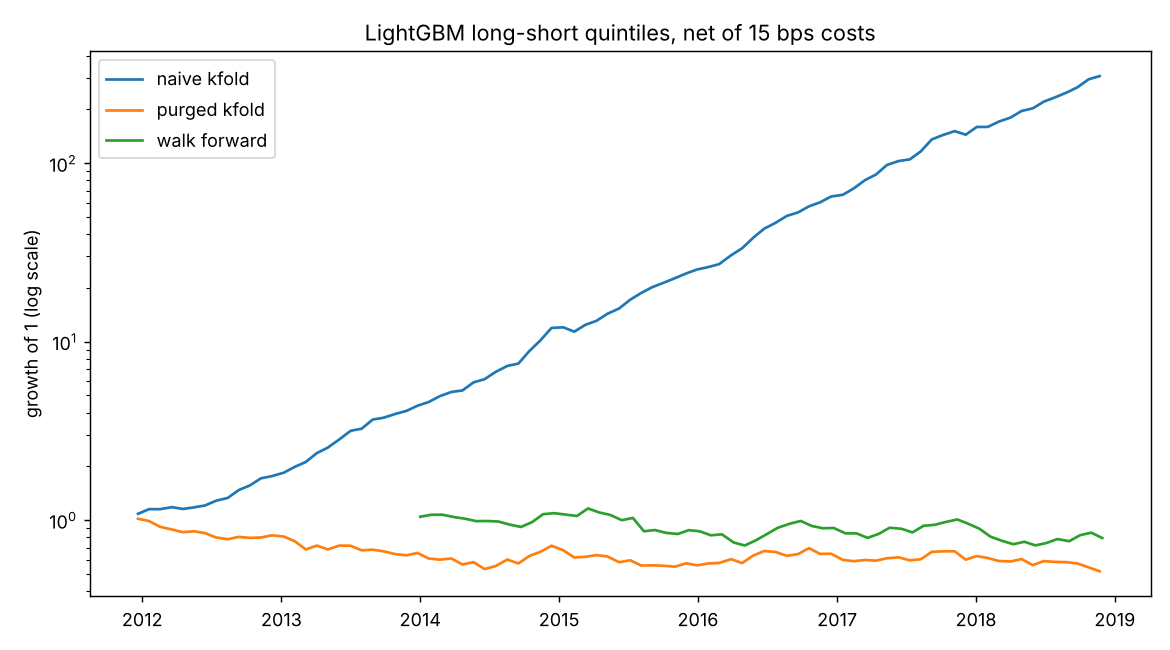
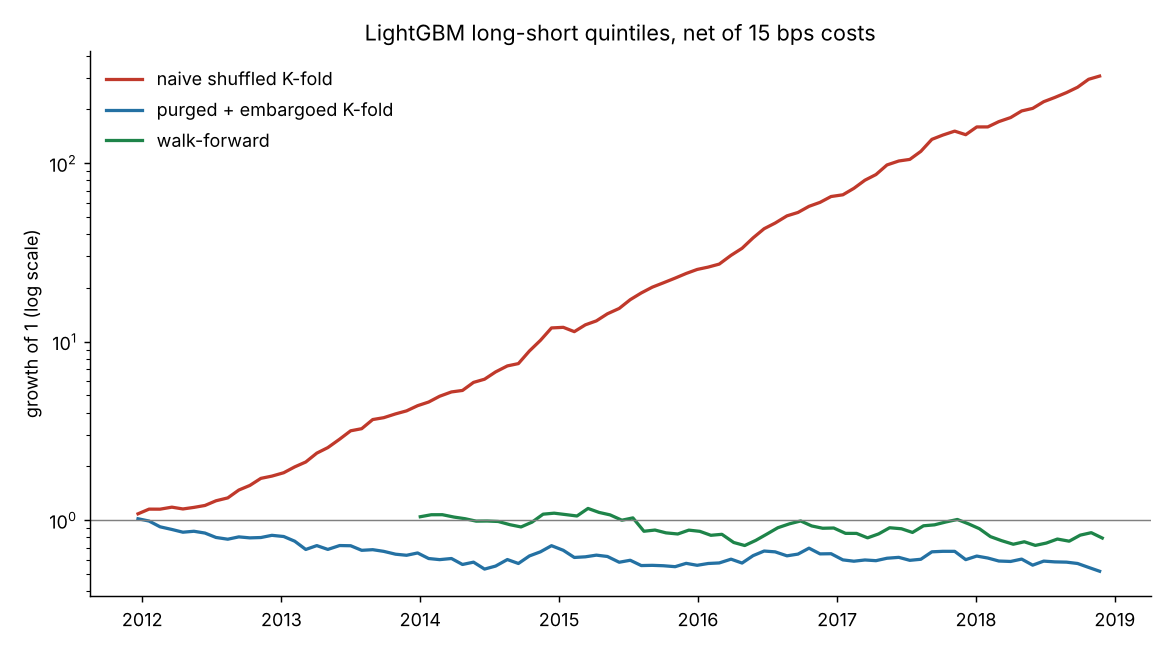
Experiment: cost sensitivity, IC by year, feature importance; CI workflow for the real-data run
Claude-Session: https://claude.ai/code/session_01Xqk2g4KnHZ4g59dPzdo9K7

diff --git a/scripts/02_run_experiment.py b/scripts/02_run_experiment.py
@@ -3,9 +3,11 @@
     python scripts/02_run_experiment.py
 
 Outputs
-- results/summary.csv            IC and backtest stats for every (validation, model)
-- results/summary.md             the same as a markdown table
-- results/cumulative_returns.png long-short net equity curves, naive vs purged vs walk-forward
+- results/summary.csv / summary.md   IC and backtest stats for every (validation, model)
+- results/cost_sensitivity.md        walk-forward LightGBM at 0, 15 and 30 bps
+- results/ic_by_year.md              walk-forward IC year by year
+- results/feature_importance.md      LightGBM gain importance (walk-forward models)
+- results/cumulative_returns.png     long-short net equity curves for the three schemes
 """
 import sys
 from pathlib import Path
@@ -21,6 +23,7 @@ import numpy as np  # noqa: E402
 import pandas as pd  # noqa: E402
 
 from alpha.backtest import information_coefficient, performance, run_backtest  # noqa: E402
+from alpha.clean import clean_prices  # noqa: E402
 from alpha.cv import naive_kfold, purged_kfold, walk_forward  # noqa: E402
 from alpha.data import load_prices  # noqa: E402
 from alpha.features import FEATURES, build_features  # noqa: E402
@@ -28,7 +31,8 @@ from alpha.labels import HORIZON, build_labels  # noqa: E402
 from alpha.models import oos_predictions  # noqa: E402
 
 RESULTS = ROOT / "results"
-FIRST_TEST_YEAR = 2015  # walk-forward: train on 2011-2014 first, then expand yearly
+FIRST_TEST_YEAR = 2015  # walk-forward: first model trains on 2011-2014, then expands yearly
+COST_BPS = 15.0
 
 
 def load_dataset(prices: pd.DataFrame) -> pd.DataFrame:
@@ -38,9 +42,28 @@ def load_dataset(prices: pd.DataFrame) -> pd.DataFrame:
     return df.sort_values(["date", "ticker"]).reset_index(drop=True)
 
 
+def evaluate(df: pd.DataFrame, cost_bps: float = COST_BPS) -> tuple[dict, pd.DataFrame, pd.Series]:
+    ic = information_coefficient(df)
+    bt = run_backtest(df, cost_bps=cost_bps)
+    # IC on rebalance dates only, so its t-stat isn't inflated by overlapping labels
+    ic_reb = ic.reindex(bt.index).dropna()
+    row = {"mean_ic": ic_reb.mean(), "ic_tstat": ic_reb.mean() / ic_reb.std() * np.sqrt(len(ic_reb))}
+    for port in ["long_short", "long_only"]:
+        for kind in ["gross", "net"]:
+            p = performance(bt[f"{port}_{kind}"])
+            row[f"{port}_{kind}_sharpe"] = p["sharpe"]
+            row[f"{port}_{kind}_ann_return"] = p["ann_return"]
+        row[f"{port}_max_dd"] = performance(bt[f"{port}_net"])["max_drawdown"]
+        row[f"{port}_turnover"] = bt[f"{port}_turnover"].iloc[1:].mean()
+    ew = performance(bt["equal_weight_gross"])
+    row["equal_weight_sharpe"], row["equal_weight_ann_return"] = ew["sharpe"], ew["ann_return"]
+    row["test_start"], row["test_end"] = bt.index.min().date(), bt.index.max().date()
+    return row, bt, ic
+
+
 def main(prices: pd.DataFrame | None = None, out: Path = RESULTS) -> pd.DataFrame:
-    out.mkdir(exist_ok=True)
-    prices = load_prices() if prices is None else prices
+    out.mkdir(parents=True, exist_ok=True)
+    prices = clean_prices(load_prices() if prices is None else prices)
     df = load_dataset(prices)
     print(f"dataset: {len(df):,} stock-days, {df['ticker'].nunique()} stocks, "
           f"{df['date'].min().date()} to {df['date'].max().date()}")
@@ -50,47 +73,64 @@ def main(prices: pd.DataFrame | None = None, out: Path = RESULTS) -> pd.DataFram
         "purged_kfold": lambda: purged_kfold(df["date"], df["label_end"], 5, embargo_days=HORIZON),
         "walk_forward": lambda: walk_forward(df["date"], df["label_end"], FIRST_TEST_YEAR),
     }
-    rows, curves = [], {}
+    rows, curves, importances = [], {}, []
     for scheme, splits in schemes.items():
         for model in ["ridge", "lightgbm"]:
-            df["pred"] = oos_predictions(df, FEATURES, splits(), model)
-            ic = information_coefficient(df)
-            bt = run_backtest(df)
-            # IC on rebalance dates only, so its t-stat isn't inflated by overlapping labels
-            ic_reb = ic.reindex(bt.index).dropna()
-            row = {
-                "validation": scheme, "model": model,
-                "mean_ic": ic_reb.mean(),
-                "ic_tstat": ic_reb.mean() / ic_reb.std() * np.sqrt(len(ic_reb)),
-            }
-            for port in ["long_short", "long_only"]:
-                for kind in ["gross", "net"]:
-                    p = performance(bt[f"{port}_{kind}"])
-                    row[f"{port}_{kind}_sharpe"] = p["sharpe"]
-                    row[f"{port}_{kind}_ann_return"] = p["ann_return"]
-                row[f"{port}_max_dd"] = performance(bt[f"{port}_net"])["max_drawdown"]
-                row[f"{port}_turnover"] = bt[f"{port}_turnover"].iloc[1:].mean()
-            row["equal_weight_sharpe"] = performance(bt["equal_weight_gross"])["sharpe"]
-            rows.append(row)
+            imp = importances if (scheme, model) == ("walk_forward", "lightgbm") else None
+            df["pred"] = oos_predictions(df, FEATURES, splits(), model, importances=imp)
+            row, bt, ic = evaluate(df)
+            rows.append({"validation": scheme, "model": model, **row})
             curves[(scheme, model)] = (1 + bt["long_short_net"]).cumprod()
             print(f"  {scheme:13s} {model:9s} IC={row['mean_ic']:+.4f} "
-                  f"L/S net Sharpe={row['long_short_net_sharpe']:+.2f}")
+                  f"L/S net Sharpe={row['long_short_net_sharpe']:+.2f}", flush=True)
+            if (scheme, model) == ("walk_forward", "lightgbm"):
+                wf_df, wf_ic, wf_bt = df.copy(), ic, bt
 
     summary = pd.DataFrame(rows)
     summary.to_csv(out / "summary.csv", index=False)
     cols = ["validation", "model", "mean_ic", "ic_tstat", "long_short_gross_sharpe",
             "long_short_net_sharpe", "long_short_net_ann_return", "long_short_max_dd",
             "long_short_turnover", "long_only_net_sharpe", "equal_weight_sharpe"]
-    (out / "summary.md").write_text(summary[cols].to_markdown(index=False, floatfmt=".3f"))
+    (out / "summary.md").write_text(summary[cols].to_markdown(index=False, floatfmt=".3f") + "\n")
+
+    # costs: how much of the walk-forward result survives realistic trading costs?
+    cost_rows = []
+    for bps in [0, 15, 30]:
+        r, _, _ = evaluate(wf_df, cost_bps=bps)
+        cost_rows.append({"cost_bps": bps, **{k: r[k] for k in [
+            "long_short_net_sharpe", "long_short_net_ann_return",
+            "long_only_net_sharpe", "long_only_net_ann_return"]}})
+    (out / "cost_sensitivity.md").write_text(
+        pd.DataFrame(cost_rows).to_markdown(index=False, floatfmt=".3f") + "\n")
+
+    # stability: is the walk-forward IC positive most years, or driven by one lucky year?
+    ic_reb = wf_ic.reindex(wf_bt.index).dropna()
+    by_year = ic_reb.groupby(ic_reb.index.year).agg(["mean", "count"])
+    by_year["ls_net_return"] = wf_bt["long_short_net"].groupby(wf_bt.index.year).apply(
+        lambda r: (1 + r).prod() - 1)
+    by_year.index.name = "year"
+    by_year.columns = ["mean_ic", "rebalances", "long_short_net_return"]
+    by_year["rebalances"] = by_year["rebalances"].astype(str)
+    (out / "ic_by_year.md").write_text(by_year.to_markdown(floatfmt=".3f") + "\n")
+
+    imp = pd.Series(np.mean(importances, axis=0), index=FEATURES).sort_values(ascending=False)
+    (out / "feature_importance.md").write_text(
+        imp.rename("gain_share").to_frame().to_markdown(floatfmt=".3f") + "\n")
 
     fig, ax = plt.subplots(figsize=(9, 5))
-    for (scheme, model), c in curves.items():
-        if model == "lightgbm":
-            ax.plot(c.index, c.values, label=scheme.replace("_", " "))
+    styles = {"naive_kfold": ("#c0392b", "naive shuffled K-fold"),
+              "purged_kfold": ("#2471a3", "purged + embargoed K-fold"),
+              "walk_forward": ("#1e8449", "walk-forward")}
+    for scheme, (color, label) in styles.items():
+        c = curves[(scheme, "lightgbm")]
+        ax.plot(c.index, c.values, color=color, label=label, lw=1.8)
+    ax.axhline(1, color="grey", lw=0.8)
     ax.set_yscale("log")
-    ax.set_title("LightGBM long-short quintiles, net of 15 bps costs")
+    ax.set_title(f"LightGBM long-short quintiles, net of {COST_BPS:.0f} bps costs")
     ax.set_ylabel("growth of 1 (log scale)")
-    ax.legend()
+    ax.legend(frameon=False)
+    for side in ["top", "right"]:
+        ax.spines[side].set_visible(False)
     fig.tight_layout()
     fig.savefig(out / "cumulative_returns.png", dpi=130)
     return summary

diff --git a/src/alpha/models.py b/src/alpha/models.py
@@ -29,10 +29,12 @@ def make_model(name: str, seed: int = 0):
     raise ValueError(name)
 
 
-def oos_predictions(df, features, splits, model_name: str) -> np.ndarray:
+def oos_predictions(df, features, splits, model_name: str,
+                    importances: list | None = None) -> np.ndarray:
     """Out-of-sample predictions: each row is predicted by a model that never trained on it.
 
     Rows that no split tests (e.g. the first years in walk-forward) stay NaN.
+    If `importances` is a list, each fitted LightGBM model's gain importances are appended.
     """
     pred = np.full(len(df), np.nan)
     X, y = df[features].to_numpy(), df["target"].to_numpy()
@@ -40,4 +42,7 @@ def oos_predictions(df, features, splits, model_name: str) -> np.ndarray:
         m = make_model(model_name)
         m.fit(np.nan_to_num(X[train_idx]), y[train_idx])
         pred[test_idx] = m.predict(np.nan_to_num(X[test_idx]))
+        if importances is not None and model_name == "lightgbm":
+            gain = m.booster_.feature_importance(importance_type="gain")
+            importances.append(gain / gain.sum())
     return pred

diff --git a/results/placebo/cost_sensitivity.md b/results/placebo/cost_sensitivity.md
@@ -1,0 +1,5 @@
+|   cost_bps |   long_short_net_sharpe |   long_short_net_ann_return |   long_only_net_sharpe |   long_only_net_ann_return |
+|-----------:|------------------------:|----------------------------:|-----------------------:|---------------------------:|
+|      0.000 |                   0.102 |                       0.001 |                  0.926 |                      0.110 |
+|     15.000 |                  -0.141 |                      -0.044 |                  0.734 |                      0.085 |
+|     30.000 |                  -0.382 |                      -0.088 |                  0.542 |                      0.060 |

diff --git a/results/placebo/feature_importance.md b/results/placebo/feature_importance.md
@@ -1,0 +1,17 @@
+|                |   gain_share |
+|:---------------|-------------:|
+| log_dollar_vol |        0.155 |
+| mom_12_1       |        0.115 |
+| dist_52w_high  |        0.088 |
+| vol_63d        |        0.087 |
+| mom_126d       |        0.087 |
+| mom_63d        |        0.084 |
+| hl_range_21d   |        0.071 |
+| ma_200_ratio   |        0.065 |
+| vol_ratio      |        0.054 |
+| vol_21d        |        0.050 |
+| ma_50_ratio    |        0.048 |
+| ret_21d        |        0.041 |
+| rsi_14         |        0.026 |
+| volume_surge   |        0.017 |
+| rev_5d         |        0.014 |

diff --git a/results/placebo/ic_by_year.md b/results/placebo/ic_by_year.md
@@ -1,0 +1,7 @@
+|   year |   mean_ic |   rebalances |   long_short_net_return |
+|-------:|----------:|-------------:|------------------------:|
+|   2014 |     0.031 |           13 |                   0.092 |
+|   2015 |    -0.034 |           12 |                  -0.196 |
+|   2016 |     0.011 |           13 |                   0.028 |
+|   2017 |     0.017 |           12 |                   0.056 |
+|   2018 |    -0.020 |           12 |                  -0.168 |
